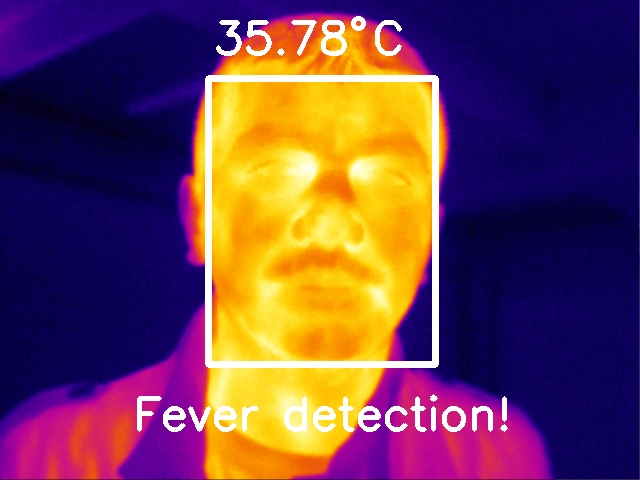
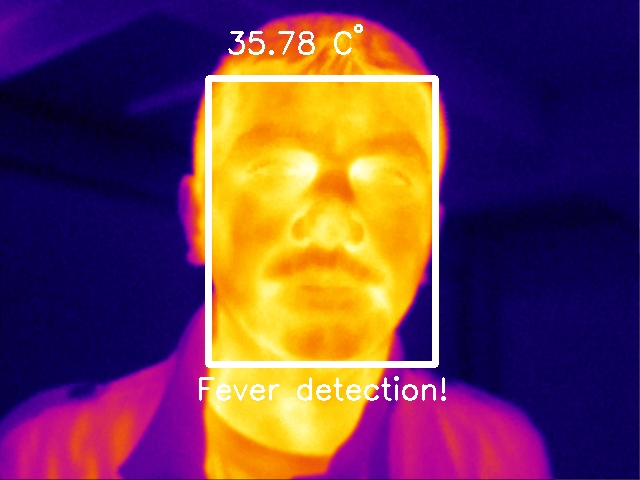
new image added

Changed region(s): [[0.1875, 0.7812, 0.8125, 0.9062], [0.3438, 0.0312, 0.625, 0.125], [0.5938, 0.0938, 0.625, 0.125]]

diff --git a/infrared_image_face_annotation_DL.py b/infrared_image_face_annotation_DL.py
@@ -5,7 +5,7 @@ def fahrenheit2celcius(f):
     return (f - 32) * 5 / 9
 
 # hangi fotoğrafın üzerinde çalışacağız
-name = "IR_00191"
+name = "IR_00121"
 # csv dosyasının ismini oluşturalım
 csv_file = f'temperature/{name}{".csv"}'
 # Fluke Thermal Imager tarafından bize sağlanan sıcaklık haritası 240x320 CCD boyutunda
@@ -103,13 +103,16 @@ for i in range(0, detections.shape[2]):
 		GREEN = (0, 255, 0)
 		cv2.rectangle(img_rgb, (startX, startY), (endX, endY), GREEN, 6)
 		cv2.rectangle(img_infrared, (startX, startY), (endX, endY), WHITE, 6)
-		cv2.putText(img_infrared, text, (startX+5, y-15), 0, 1.5, WHITE, 3)
-		cv2.circle(img_infrared, (startX+150,startY-55), 5, WHITE, 4, 0)
-		if max_temperature[i] > threshold_temperature:
-			if img_rgb.shape[1] == 1280:
+		if img_rgb.shape[1] == 1280:
+			cv2.putText(img_infrared, text, (startX+5, y-15), 0, 1.5, WHITE, 3)
+			cv2.circle(img_infrared, (startX+150,startY-55), 5, WHITE, 4, 0)
+			if max_temperature[i] > threshold_temperature:
 				cv2.putText(img_infrared, "Fever detection!", (startX-75, y-65), 0, 1.5, WHITE, 3)
-			elif img_rgb.shape[1] == 640:
-				cv2.putText(img_infrared, "Fever detection!", (startX-75, endY+65), 0, 1.5, WHITE, 3)
+		elif img_rgb.shape[1] == 640:
+			cv2.putText(img_infrared, text, (startX+18, y-15), 0, 1, WHITE, 2)
+			cv2.circle(img_infrared, (startX+150,startY-50), 3, WHITE, 2, 0)
+			if max_temperature[i] > threshold_temperature:
+				cv2.putText(img_infrared, "Fever detection!", (startX-12, endY+35), 0, 1, WHITE, 2)
 # save output image
 cv2.imwrite(f"result/{infrared_img_name}_fever_detection.jpg", img_infrared, [cv2.IMWRITE_JPEG_QUALITY, 100])
 cv2.imwrite(f"result/{img_name}_face_detection.jpg", img_rgb, [cv2.IMWRITE_JPEG_QUALITY, 100])

diff --git a/result/merge_image_2_by_2.py b/result/merge_image_2_by_2.py
@@ -1,7 +1,7 @@
 import cv2
 import numpy as np
 
-name = "IR_00191"
+name = "IR_00121"
 img1name = f"./../image/{name}_RGB.png"
 img2name = f"./../image/{name}.png"
 img3name = f"{name}_RGB_face_detection.jpg"
@@ -26,7 +26,10 @@ while True:
 
 h, w, c = img1.shape
 # insert (a) (b) (c) (d) on upper right of the images
-xshift, yshift, fontType, fontScale, color, thickness = 150, 100, 0, 2, (255,255,255), 6
+if w == 1280:
+    xshift, yshift, fontType, fontScale, color, thickness = 150, 100, 0, 2, (255,255,255), 6
+elif w == 640:
+    xshift, yshift, fontType, fontScale, color, thickness = 60, 50, 0, 1, (255,255,255), 3
 img1 = cv2.putText(img1, "(a)", (w-xshift, yshift), fontType, fontScale, color, thickness, 0)
 img2 = cv2.putText(img2, "(b)", (w-xshift, yshift), fontType, fontScale, color, thickness, 0)
 img3 = cv2.putText(img3, "(c)", (w-xshift, yshift), fontType, fontScale, color, thickness, 0)

diff --git a/README.md b/README.md
@@ -1,4 +1,5 @@
-<h2>Fever Detection on Infrared Images</h2>
+<h2>Termal Resimlerde Ateşli Hasta Tespiti (Fever Detection on Infrared Images)</h2>
+<p>Burada direkt termal resim üzerinde çalışmıyoruz. Yaptığımız şey (1)termal resimlerdeki yüz bölgelerini aynı sahneye tekabül eden görünebilir ışık spektrumu resminde OpenCV'de yer alan derin öğrenme tabanlı bir yüz tespiti metoduyla tespit etmek, (2) bu bölgeleri termal resim üzerinde göstermek, (3) yüz bölgelerindeki en yüksek sıcaklığı bulup belli bir eşik değerinden (e.g., 35<sup>o</sup>) fazla iseler tespit edilen yüzlerin üzerine veya altına ateşli hasta (fever detection) yazdırmak.</p>
 
 <figure>
 <img src="result/IR_00135_RGB_infrared_faces_fever.jpg" alt="fever detection on the image" width="%100" height=auto></a>
